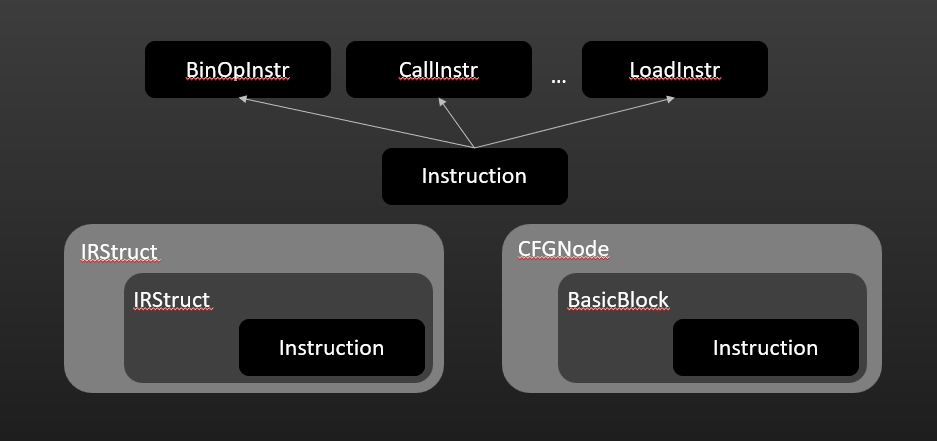
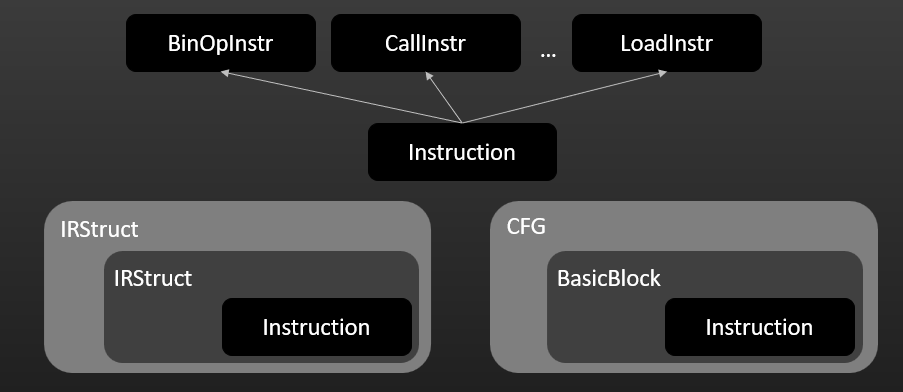
Updated README.md.

Changed region(s): [[0.124, 0.0306, 0.8682, 0.4592], [0.031, 0.4898, 0.4961, 0.949], [0.5271, 0.4898, 0.9922, 0.949]]

diff --git a/README.md b/README.md
@@ -86,11 +86,10 @@ jump instructions. The architecture is as follows:
   `CallInstr` for binary instructions and calling functions respectively. Each instruction has a reference to the
   containing basic block and IR structure.
 * `BasicBlock`: represents a basic block which is a sequence of instructions such that there is no branching except for
-  the last instruction or that the first instruction is a target for jumps. A basic block has a reference to the
-  containing CFG node(mentioned below). Note that unlike LLVM, a basic block does not have any reference to a function
-  or module.
+  the last instruction or that the first instruction is a target for jumps. Note that unlike LLVM, a basic block does
+  not have any reference to a function or module.
 * `IRStruct`: the base class for any IR structures. An IR structure can be a module, a function, a loop statement,
-  an if-else sequence, or an if statement. Each IR structure does not have any other references other than one to its
+  an if-else sequence, or an if statement. Each IR structure does not have any references other than one to its
   container, which is another `IRStruct` object.
 
 Currently, the IR hierarchy is shown below:
@@ -103,8 +102,8 @@ The CFG is used to do code analysis and optimizes it by feeding it through passe
 structures are:
 
 * `CFG`: represents a CFG.
-* `CFGNode`: a node in the CFG that holds a reference to a basic block.
-* `CFGEdge`: an edge in the CFG that connects two nodes.
+* `BasicBlock`: can be considered as a node in CFG. The properties of a basic block are mentioned above.
+* `CFGEdge`: an edge in the CFG that connects two basic blocks.
 * Using the constructed CFG, we can examine the flow of the program and look for optimization opportunities, for
   example, whether a function recursion is present.
 
@@ -114,8 +113,7 @@ A pass can be thought as an object that processes the code. The current passes a
 
 * `InstrBuilder`: constructs a list of instructions by traversing the AST.
 * `JmpTargetResolver`: resolves any jump target by using the generated hierarchy from the previous pass.
-* `BasicBlockBuilder`: builds a list of basic blocks from the constructed list of instructions.
-* `CFGBuilder`: builds a CFG from the constructed list of basic blocks. This is still being implemented.
+* `BasicBlockBuilder`: builds a list of basic blocks for the CFG from the constructed list of instructions.
 
 ## Other projects
 
